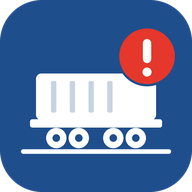
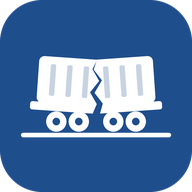
Odborné a slangové názvy skupin, ikona s rozlomeným vozem, pochvala po zapsání závady
- Skupiny: odborný název nahoře, slangový pod ním (wagon_groups.slang, migrace_06);
  na jeden řádek „Faccpp – Choper“ (group_name, export, sdílení, upozornění, server)
- Ikona bez červeného odznaku: vagon rozlomený klikatou trhlinou (tools/ikony.py kreslí SVG i PNG)
- Po uložení a sdílení závady pochvala „Děkuji za zapsání závady…“
- Registrace už neslibuje potvrzovací e-mail (Supabase účty potvrzuje sám)
- Verze aplikace 20

Changed region(s): [[0.0938, 0.125, 0.9375, 0.8125]]

diff --git a/js/ui.js b/js/ui.js
@@ -197,6 +197,9 @@ export function BottomNav({ active }) {
     </nav>`;
 }
 
+// Název skupiny na dva řádky: odborný nahoře, slangový menším písmem pod ním
+export const GroupName = ({ g }) => html`${g.name}${g.slang && html`<small class="group-slang">${g.slang}</small>`}`;
+
 export const Loading = () => html`<div class="loading"><span class="spinner"></span> Načítám…</div>`;
 export const ErrorBox = ({ error }) => error ? html`<div class="error-box"><${Icon} name="alert" /> ${error.message ?? String(error)}</div>` : null;
 export const Empty = ({ children }) => html`<div class="empty">${children}</div>`;
@@ -394,7 +397,9 @@ export function DefectCard({ d, wagon = null, showComments = true, isNew = false
           <a class="btn btn-ghost" href="#/zavada/${d.id}"><${Icon} name="chat" size=${18} />
             ${d.comment_count ? plural(d.comment_count, 'komentář', 'komentáře', 'komentářů') : 'Komentovat'}</a>`}
         <button class="btn btn-whatsapp" title="Poslat do WhatsAppu" aria-label="Poslat závadu do WhatsAppu"
-          onClick=${() => quickShare({ d, w: wagon, catalog, openDialog: (prepared) => share(d.id, { prepared }) })}>
+          onClick=${() => quickShare({
+            d, w: wagon, catalog, openDialog: (prepared) => share(d.id, { prepared }), onShared: () => praise(toast),
+          })}>
           <${Icon} name="share" size=${18} /> WhatsApp</button>
         <span class="defect-tools">
           ${resolved && can.resolve(me, d) && html`
@@ -418,6 +423,15 @@ export function codeSummaryText(code, catalog) {
   if (!c) return '';
   const text = [c.kontext, c.popis].filter(Boolean).join(' ').replace(/\s+/g, ' ').trim();
   return [c.cesta, text].filter(Boolean).join(' – ');
+}
+
+// Pochvala po zapsání nebo sdílení závady. Po uložení se hned nabízí sdílení – tam se už znovu neukáže.
+const PRAISE = 'Děkuji za zapsání závady, super, že jste dali vědět kolegům 👍';
+let praisedAt = 0;
+export function praise(toast, { title, always = false } = {}) {
+  if (!always && Date.now() - praisedAt < 3 * 60000) return;
+  praisedAt = Date.now();
+  toast(PRAISE, { title, duration: 6000 });
 }
 
 // Text zprávy; *hvězdičky* = tučně ve WhatsAppu
@@ -466,7 +480,7 @@ async function nativeShare(text, files) {
  * Sdílení na jedno klepnutí: rovnou otevře nabídku sdílení telefonu (text + fotky).
  * Když to nejde (počítač, fotky se stahují dlouho, telefon sdílení odmítne), otevře okno s jedním tlačítkem.
  */
-export async function quickShare({ d, w, catalog, openDialog }) {
+export async function quickShare({ d, w, catalog, openDialog, onShared }) {
   if (!w || typeof navigator.share !== 'function') { openDialog({}); return; }
   const text = defectShareText(d, w, catalog);
   const filesPromise = photoFiles(d, w);
@@ -474,6 +488,7 @@ export async function quickShare({ d, w, catalog, openDialog }) {
   if (files === null) { openDialog({ d, w, filesPromise }); return; }
   try {
     await nativeShare(text, shareable(files));
+    onShared?.();
   } catch (e) {
     if (e.name !== 'AbortError') openDialog({ d, w, files });
   }
@@ -516,6 +531,7 @@ export function ShareDialog({ id, afterSave = false, prepared = {}, onClose }) {
   async function send() {
     try {
       await nativeShare(text, files ?? []);
+      praise(toast);
       onClose();
     } catch (e) {
       if (e.name !== 'AbortError') toast(`Sdílení se nepovedlo: ${e.message}`, { kind: 'error' });
@@ -545,12 +561,14 @@ export function ShareDialog({ id, afterSave = false, prepared = {}, onClose }) {
             ? html`<button class="btn btn-whatsapp block big-btn" disabled=${preparing} onClick=${send}>
                 ${preparing ? 'Připravuji fotky…' : `Poslat do WhatsAppu${what}`}</button>
               <p class="muted small">V nabídce klepněte na WhatsApp a vyberte skupinu.</p>`
-            : html`<a class="btn btn-whatsapp block big-btn" href=${waLink} target="_blank" rel="noopener">Otevřít WhatsApp</a>
+            : html`<a class="btn btn-whatsapp block big-btn" href=${waLink} target="_blank" rel="noopener"
+                onClick=${() => praise(toast)}>Otevřít WhatsApp</a>
               <p class="muted small">Otevře se WhatsApp s připraveným textem, vyberete jen skupinu. Fotky pošlete z telefonu.</p>`}
           <div class="share-preview">${text}</div>
           <details class="share-more">
             <summary>Jiné možnosti</summary>
-            ${canNative && html`<a class="btn block" href=${waLink} target="_blank" rel="noopener">WhatsApp jen s textem</a>`}
+            ${canNative && html`<a class="btn block" href=${waLink} target="_blank" rel="noopener"
+              onClick=${() => praise(toast)}>WhatsApp jen s textem</a>`}
             <button class="btn block" onClick=${copy}><${Icon} name="clipboard" size=${18} /> Kopírovat text</button>
           </details>
           ${afterSave && html`<button class="btn btn-ghost block" onClick=${onClose}>Teď ne</button>`}`}

diff --git a/js/views/form.js b/js/views/form.js
@@ -6,7 +6,7 @@ import {
   MAX_VIDEO_MB, can, checkDigit, checkFoundAt, digitsOnly, foundAtOf, formatNumber, isCompleteNumber,
   isValidCheckDigit, toLocalInput,
 } from '../model.js';
-import { Empty, ErrorBox, Icon, Loading, TopBar, WagonNumber, replace, useApp, useLoad } from '../ui.js';
+import { Empty, ErrorBox, GroupName, Icon, Loading, TopBar, WagonNumber, praise, replace, useApp, useLoad } from '../ui.js';
 import { CodePicker } from './codes.js';
 import { outbox } from '../outbox.js';
 
@@ -128,7 +128,7 @@ export function DefectFormView({ editId, params }) {
       if (!wagon) wagon = found && found !== 'offline' ? found : (await api.findWagon(number)) ?? await api.createWagon(number, groupId);
       const created = await api.createDefect({ wagon_id: wagon.id, description, found_at, defect_code: code }, files,
         (i, n) => setBusy(`Nahrávám přílohu ${i}/${n}…`));
-      toast('Závada uložena. Ostatní uživatelé dostanou upozornění.');
+      praise(toast, { title: 'Závada uložena', always: true });
       // Ve zkušebním provozu běží souběžně skupina na WhatsAppu → hned nabídnout poslání (vše je v telefonu,
       // nic se nestahuje: text ze zadaných údajů, fotky přímo z formuláře)
       if (created?.id) {
@@ -147,6 +147,7 @@ export function DefectFormView({ editId, params }) {
           defect_code: code || null, found_at: found_at ?? new Date().toISOString(), files,
         });
         toast('Bez signálu – závada je uložená v telefonu a odešle se sama, jakmile bude připojení.', { sticky: true });
+        praise(toast, { always: true });
         replace(fixedWagonId ? `#/vuz/${fixedWagonId}` : '#/');
         return;
       }
@@ -197,7 +198,7 @@ export function DefectFormView({ editId, params }) {
                 ${found === null && html`<div class="hint">Nový vůz – vyberte skupinu:</div>`}
                 <div class="chips-select">
                   ${groups.data?.map((g) => html`
-                    <button type="button" class="chip-btn ${groupId === g.id ? 'active' : ''}" onClick=${() => setGroupId(g.id)}>${g.name}</button>`)}
+                    <button type="button" class="chip-btn ${groupId === g.id ? 'active' : ''}" onClick=${() => setGroupId(g.id)}><${GroupName} g=${g} /></button>`)}
                 </div>`}`}
         </section>
 

diff --git a/js/views/overview.js b/js/views/overview.js
@@ -2,9 +2,10 @@
 
 import { html, useMemo, useState } from '../../vendor/preact-htm.js';
 import { fold } from '../codes.js';
-import { foundAtOf, formatDateTime, formatNumber, plural } from '../model.js';
+import { foundAtOf, formatDateTime, formatNumber, groupLabel, plural } from '../model.js';
 import {
-  BottomNav, Empty, ErrorBox, Icon, Loading, OutboxBanner, TopBar, UserButton, WagonNumber, useApp, useCatalog, useLoad,
+  BottomNav, Empty, ErrorBox, GroupName, Icon, Loading, OutboxBanner, TopBar, UserButton, WagonNumber, useApp, useCatalog,
+  useLoad,
 } from '../ui.js';
 
 const STATUS = { open: 'Neopravené', resolved: 'Opravené', all: 'Všechny' };
@@ -37,9 +38,9 @@ export async function exportDefects(rows, catalog, label, groups = [], chosen = 
   ];
   const present = chosen.length ? chosen : groups.filter((g) => rows.some((r) => r.group_id === g.id));
   const sheets = present.length === 1
-    ? [{ name: present[0].name, rows }]
+    ? [{ name: groupLabel(present[0]), rows }]
     : [{ name: 'Všechny závady', rows },
-      ...present.map((g) => ({ name: g.name, rows: rows.filter((r) => r.group_id === g.id) }))];
+      ...present.map((g) => ({ name: groupLabel(g), rows: rows.filter((r) => r.group_id === g.id) }))];
   const blob = buildXlsx(sheets.map((sh) => ({ ...sh, columns })));
   const day = new Date().toISOString().slice(0, 10);
   download(blob, `zavady-${label}-${day}.xlsx`);
@@ -120,7 +121,7 @@ export function OverviewView() {
           onClick=${() => setGroupIds([])}>Všechny skupiny</button>
         ${groups.data?.map((g) => html`
           <button type="button" key=${g.id} class="chip-btn ${groupIds.includes(g.id) ? 'active' : ''}"
-            aria-pressed=${groupIds.includes(g.id)} onClick=${() => toggleGroup(g.id)}>${g.name}</button>`)}
+            aria-pressed=${groupIds.includes(g.id)} onClick=${() => toggleGroup(g.id)}><${GroupName} g=${g} /></button>`)}
       </div>
       <button type="button" class="link-btn" onClick=${() => setMore(!more)}>${more ? 'Skrýt další filtry' : 'Další filtry (období, řazení)'}</button>
       ${more && html`

diff --git a/js/views/groups.js b/js/views/groups.js
@@ -3,8 +3,8 @@
 import { html, useState } from '../../vendor/preact-htm.js';
 import { plural } from '../model.js';
 import {
-  Badge, BottomNav, Empty, ErrorBox, Fab, Icon, Loading, NewBadge, OpenCount, OutboxBanner, TopBar, UserButton, WagonNumber,
-  WagonSearch, useApp, useLoad,
+  Badge, BottomNav, Empty, ErrorBox, Fab, GroupName, Icon, Loading, NewBadge, OpenCount, OutboxBanner, TopBar, UserButton,
+  WagonNumber, WagonSearch, useApp, useLoad,
 } from '../ui.js';
 
 export function HomeView() {
@@ -23,7 +23,7 @@ export function HomeView() {
         <nav class="groups">
           ${groups.data?.map((g) => html`
             <a key=${g.id} class="group-tile" href="#/skupina/${g.id}">
-              <span class="group-name">${g.name}</span>
+              <span class="group-name"><${GroupName} g=${g} /></span>
               <span class="group-sub">${g.open_count
                 ? plural(g.open_count, 'otevřená závada', 'otevřené závady', 'otevřených závad')
                 : 'bez otevřených závad'}</span>
@@ -63,7 +63,8 @@ export function GroupView({ id }) {
 
   return html`
     <${TopBar} back="#/" title=${g?.name ?? 'Skupina'}
-      sub=${g && (g.open_count ? plural(g.open_count, 'otevřená závada', 'otevřené závady', 'otevřených závad') : 'bez otevřených závad')}>
+      sub=${g && [g.slang, g.open_count
+        ? plural(g.open_count, 'otevřená závada', 'otevřené závady', 'otevřených závad') : 'bez otevřených závad'].filter(Boolean).join(' · ')}>
       <${NewBadge} n=${g?.new_count} class="badge-inline" />
       <${Badge} n=${g?.open_count} class="badge-inline" />
     <//>

diff --git a/js/api/demo.js b/js/api/demo.js
@@ -2,15 +2,15 @@
 // Rozhraní je stejné jako u Supabase (supabase.js), takže aplikace neví, s čím pracuje.
 // Pravidla oprávnění jsou tu napodobena podle supabase/schema.sql.
 
-import { can, checkDigit, checkFoundAt, compressImage, matchesQuery, uid } from '../model.js';
+import { can, checkDigit, checkFoundAt, compressImage, groupLabel, matchesQuery, uid } from '../model.js';
 
 const KEY = 'zavady-demo-v2';
 const USER_KEY = 'zavady-demo-user';
 
 const GROUPS = [
-  [1, 'Chopry'], [2, 'SA'], [3, 'UA'], [4, 'Vapy/Fals'],
-  [5, 'Trakce/Zetky'], [6, 'Plošiňáky/Res/Smmp'], [7, 'Ostatní'],
-].map(([id, name]) => ({ id, name, sort: id }));
+  [1, 'Faccpp', 'Choper'], [2, 'Faccs', 'Sa'], [3, 'Ua'], [4, 'Fals', 'Vap'],
+  [5, 'Uk, Gbgs', 'Trakce'], [6, 'Res, Smmp', 'Plošinové'], [7, 'Ostatní'],
+].map(([id, name, slang = null]) => ({ id, name, slang, sort: id }));
 
 // Ukázkový katalog: jen pár vymyšlených kódů (skutečný katalog přílohy 9 VSP je jen v ostré verzi)
 const c = (kod, cesta, popis = '', opatreni = '', trida = '', kontext = '') =>
@@ -109,7 +109,7 @@ const requireMember = () => {
   return m;
 };
 const nameOf = (id) => state.profiles.find((p) => p.id === id)?.full_name ?? 'Neznámý uživatel';
-const groupName = (id) => GROUPS.find((g) => g.id === id)?.name ?? '';
+const groupName = (id) => groupLabel(GROUPS.find((g) => g.id === id));
 const findDefect = (id) => {
   const d = state.defects.find((x) => x.id === id);
   if (!d) throw new Error('Závada neexistuje (možná byla smazána).');

diff --git a/js/views/admin.js b/js/views/admin.js
@@ -2,7 +2,7 @@
 
 import { html, useState } from '../../vendor/preact-htm.js';
 import { actorName, describe, groupTrash } from '../history.js';
-import { can, formatDateTime } from '../model.js';
+import { can, formatDateTime, groupLabel } from '../model.js';
 import { Empty, ErrorBox, Icon, Loading, TopBar, useApp, useLoad } from '../ui.js';
 
 const AdminOnly = ({ title }) => html`
@@ -62,7 +62,7 @@ export function AuditView() {
   const [limit, setLimit] = useState(200);
   const data = useLoad(async () => {
     const [entries, groups] = await Promise.all([api.listAudit(limit), api.listGroups()]);
-    return { entries, groups: new Map(groups.map((g) => [g.id, g.name])) };
+    return { entries, groups: new Map(groups.map((g) => [g.id, groupLabel(g)])) };
   }, [limit]);
   const [q, setQ] = useState('');
   if (!can.admin(me)) return html`<${AdminOnly} title="Historie změn" />`;
@@ -166,7 +166,7 @@ function ScheduleForm({ initial, groups, onDone }) {
         </label>
         ${!allGroups && groups?.map((g) => html`
           <label key=${g.id} class="check-row">
-            <input type="checkbox" checked=${f.group_ids.includes(g.id)} onChange=${() => toggleGroup(g.id)} /> ${g.name}
+            <input type="checkbox" checked=${f.group_ids.includes(g.id)} onChange=${() => toggleGroup(g.id)} /> ${groupLabel(g)}
           </label>`)}
         <span class="muted small">V Excelu bude list se všemi závadami a k tomu list pro každou skupinu.</span>
       </fieldset>

diff --git a/js/views/wagon.js b/js/views/wagon.js
@@ -1,7 +1,7 @@
 // Detail vozu: aktivní závady, skrytá historie oprav, správa vozu pro správce.
 
 import { html, useEffect, useRef, useState } from '../../vendor/preact-htm.js';
-import { can, checkDigit, formatNumber, foundAtOf, isValidCheckDigit, plural } from '../model.js';
+import { can, checkDigit, formatNumber, foundAtOf, groupLabel, isValidCheckDigit, plural } from '../model.js';
 import {
   BottomNav, DefectCard, Empty, ErrorBox, Icon, Loading, TopBar, WagonNumber, replace, useApp, useLoad,
 } from '../ui.js';
@@ -64,7 +64,7 @@ export function WagonView({ id }) {
           ${can.admin(me) && groups.data
             ? html`<label class="inline-select">Skupina:
                 <select value=${w.group_id} onChange=${changeGroup}>
-                  ${groups.data.map((g) => html`<option value=${g.id}>${g.name}</option>`)}
+                  ${groups.data.map((g) => html`<option value=${g.id}>${groupLabel(g)}</option>`)}
                 </select></label>`
             : html`<span class="muted">Skupina: <b>${w.group_name}</b></span>`}
         </div>

diff --git a/js/api/supabase.js b/js/api/supabase.js
@@ -3,7 +3,7 @@
 
 import { SUPABASE_URL, SUPABASE_ANON_KEY, VAPID_PUBLIC_KEY } from '../config.js';
 import { IMAGE_NAME } from '../codes.js';
-import { DEFAULT_PASSWORD, compressImage, uid } from '../model.js';
+import { DEFAULT_PASSWORD, compressImage, groupLabel, uid } from '../model.js';
 
 // Knihovnu načítá už index.html (souběžně s ostatními soubory); tady jen záložně, kdyby chyběla.
 if (!window.supabase) {
@@ -80,7 +80,7 @@ async function withUrls(defects) {
 // Řádek přehledu závad: závada + číslo vozu, skupina a počet příloh
 function overviewRows(defects, wagons, groups, atts) {
   const wagonMap = new Map(wagons.map((w) => [w.id, w]));
-  const groupMap = new Map(groups.map((g) => [g.id, g.name]));
+  const groupMap = new Map(groups.map((g) => [g.id, groupLabel(g)]));
   const attCount = new Map();
   for (const a of atts) attCount.set(a.defect_id, (attCount.get(a.defect_id) ?? 0) + 1);
   return defects.map(({ attachments, ...d }) => {

diff --git a/js/views/account.js b/js/views/account.js
@@ -88,7 +88,7 @@ function RealLogin() {
           Přihlásit<small>už mám účet</small></button>
       </div>
       ${tab === 'register' && html`
-        <p class="muted small form-intro">Vytvořte si účet. Přijde vám e-mail pro potvrzení a pak účet schválí správce.
+        <p class="muted small form-intro">Vytvořte si účet. Pak ho ještě musí schválit správce.
           Heslo je předvyplněné ${DEFAULT_PASSWORD} – můžete ho nechat, nebo napsat vlastní.</p>
         <label class="field">Jméno a příjmení
           <input autocomplete="name" value=${name} onInput=${(e) => setName(e.currentTarget.value)} required /></label>`}

diff --git a/css/app.css b/css/app.css
@@ -573,3 +573,8 @@ fieldset.field .check-row { margin: .45rem 0; color: var(--text); font-weight: 5
 /* Úprava, smazání, vrácení: vpravo a při zalomení řádku pohromadě */
 .defect-tools { display: inline-flex; gap: .25rem; margin-left: auto; }
 .defect-tools:empty { display: none; }
+
+/* Název skupiny: odborný nahoře, slangový pod ním */
+.group-slang { display: block; font-size: .78em; font-weight: 500; opacity: .75; line-height: 1.2; }
+.chip-btn .group-slang { font-size: .75em; }
+.chip-btn:has(.group-slang) { border-radius: 14px; padding: .35rem .9rem; line-height: 1.15; }

diff --git a/js/model.js b/js/model.js
@@ -42,6 +42,10 @@ export function matchesQuery(number, q) {
 
 // ───── Role, oprávnění ─────
 
+// Skupina vozů: odborný název (řady vozů, např. „Faccpp“) a slangový („Choper“, u některých není).
+// Na jeden řádek se píšou oba: „Faccpp – Choper“ (stejně jako group_name z databáze).
+export const groupLabel = (g) => [g?.name, g?.slang].filter(Boolean).join(' – ');
+
 // Základní heslo nového účtu (předvyplněné v registraci i při založení správcem); změnit ho jde, ale nemusí se
 export const DEFAULT_PASSWORD = '123456';
 

diff --git a/js/app.js b/js/app.js
@@ -92,7 +92,7 @@ function App() {
   const toast = (message, opts = {}) => {
     const id = ++toastSeq;
     setToasts((t) => [...t.slice(-2), { id, message, ...opts }]);
-    setTimeout(() => dismiss(id), opts.sticky ? 30000 : opts.kind === 'error' ? 7000 : opts.href ? 8000 : 3500);
+    setTimeout(() => dismiss(id), opts.duration ?? (opts.sticky ? 30000 : opts.kind === 'error' ? 7000 : opts.href ? 8000 : 3500));
   };
 
   useEffect(() => {
